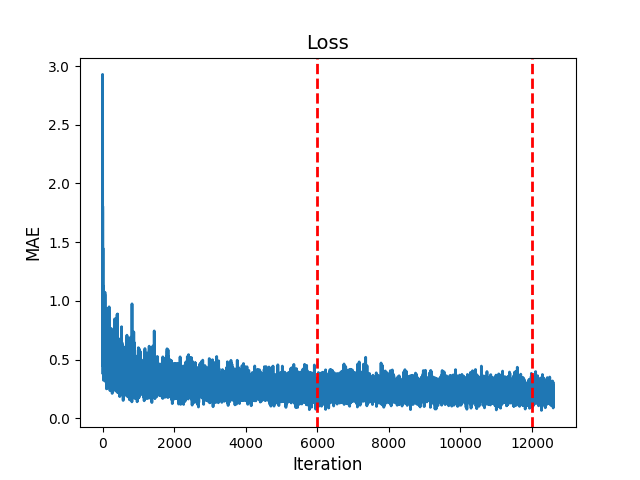
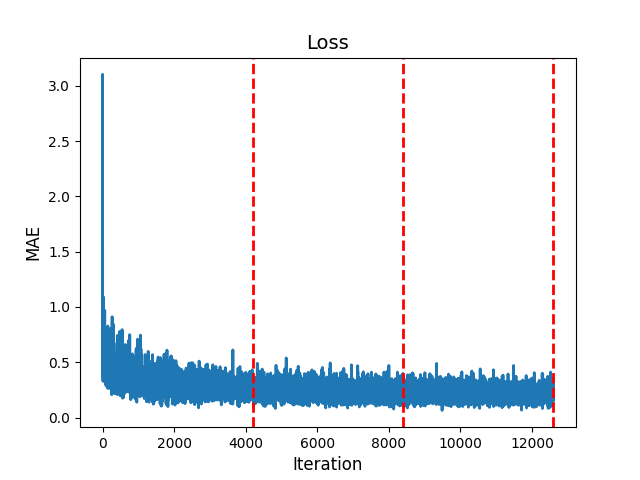
Fixed loss graph

diff --git a/README.md b/README.md
@@ -34,7 +34,7 @@ There have been attemps to use deep learning techniques to overperform tradition
 [^2]: [Attention Is All You Need](https://arxiv.org/abs/1706.03762)
 
 ## Training
-Methods based on fractional Brownian motion are a simple, though mathematically rigorous, way to simulate diffusion trajectories starting from the $\alpha$ parameter. A simulator[^3] was used to generate 60000, 100 step long, trajectories with $\alpha$ sampled from a uniform distribution 0-1.8. A Transformer Encoder was then trained to predict $\alpha$ using a pytorch implementation. Preliminary analysis suggests that an embedding size close to 30, together with 2 attention heads, is enough to fully take advantage of the information contained in the trajectories. After 2 epochs with a learning rate of 0.001, MAE loss, Adam optimizer and batch size of 10, the model achieved an average loss of 0.22 on the validation set.
+Methods based on fractional Brownian motion are a simple, though mathematically rigorous, way to simulate diffusion trajectories starting from the $\alpha$ parameter. A simulator[^3] was used to generate 60000, 100 step long, trajectories with $\alpha$ sampled from a uniform distribution 0-1.8. A Transformer Encoder was then trained to predict $\alpha$ using a pytorch implementation. Preliminary analysis suggests that an embedding size close to 30, together with 2 attention heads, is enough to fully take advantage of the information contained in the trajectories. After 3 epochs with a learning rate of 0.001, MAE loss, Adam optimizer and batch size of 10, the model achieved an average loss of 0.22 on the validation set.
 
 <p align="center">
   <picture>
